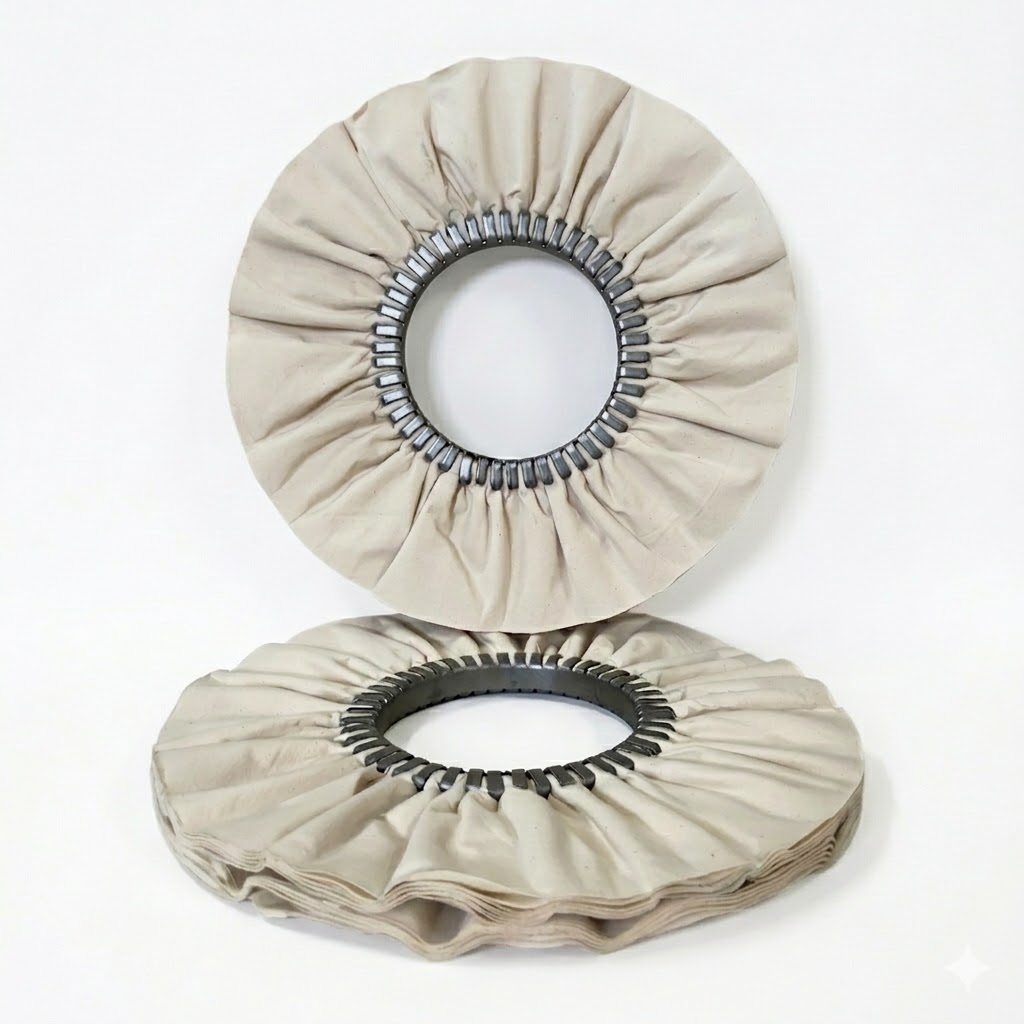
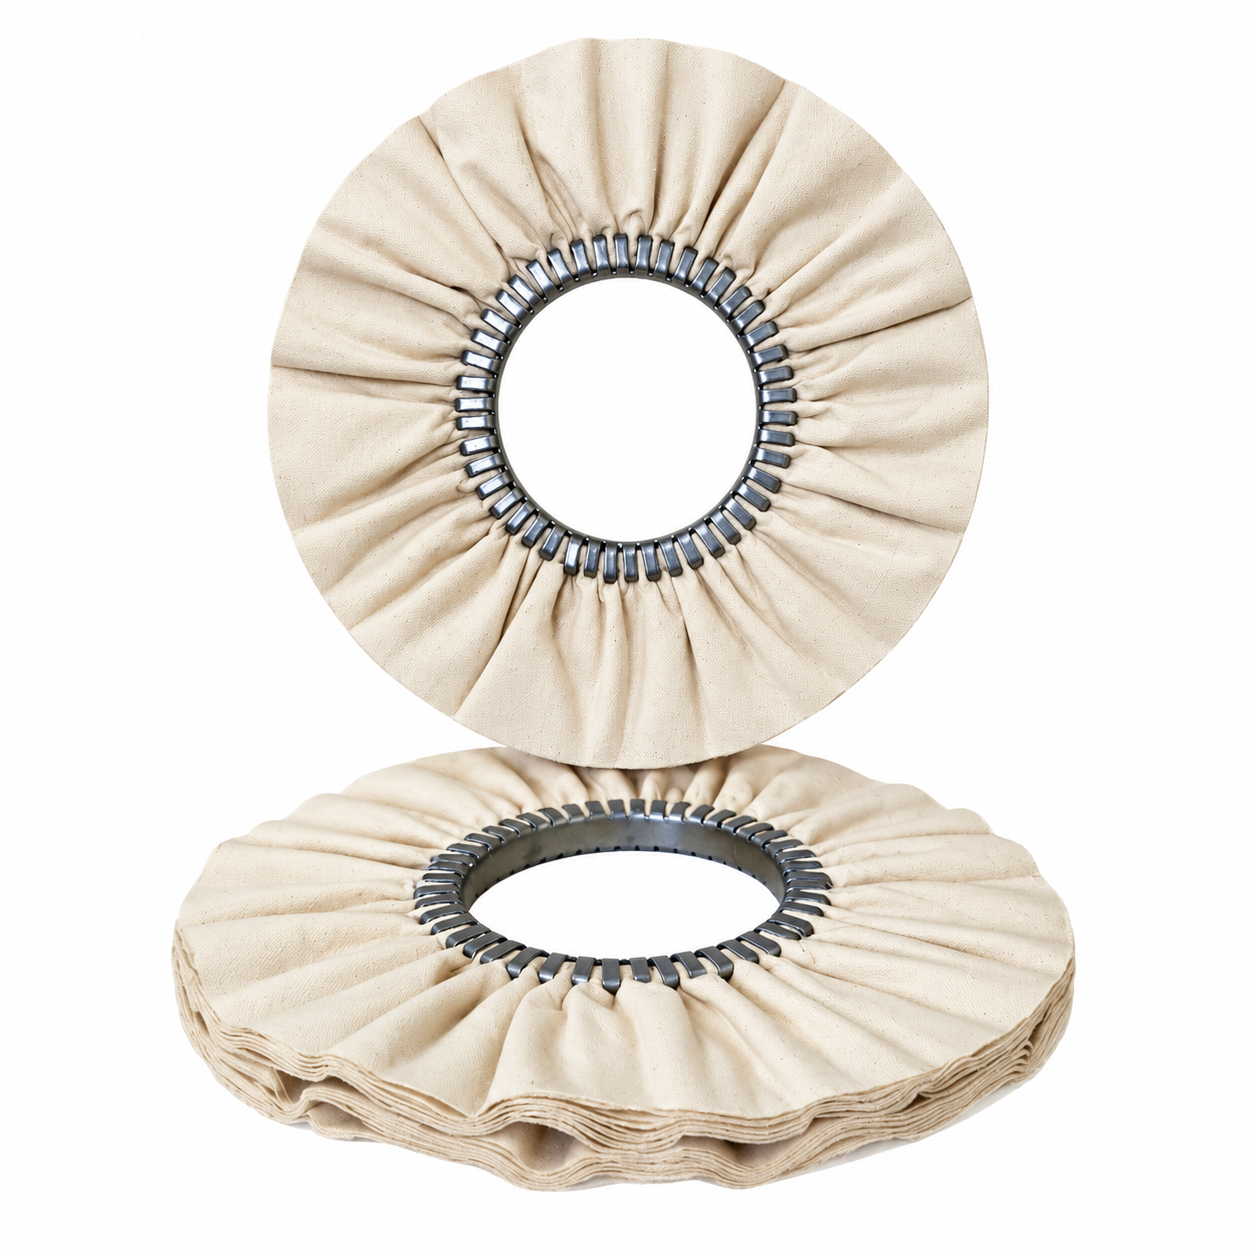
Nueva foto de discos de tela en el catálogo

diff --git a/catalogo.html b/catalogo.html
@@ -612,7 +612,7 @@ section#gamas{padding-top:2.6rem;}
         </figcaption>
       </figure>
       <figure class="producto-card revelar">
-        <img src="assets/img/discos-tela.png?v=3" alt="Discos de tela ALBAIT">
+        <img src="assets/img/discos-tela.png?v=4" alt="Discos de tela ALBAIT">
         <figcaption>
           <b>Discos de tela</b>
         </figcaption>
